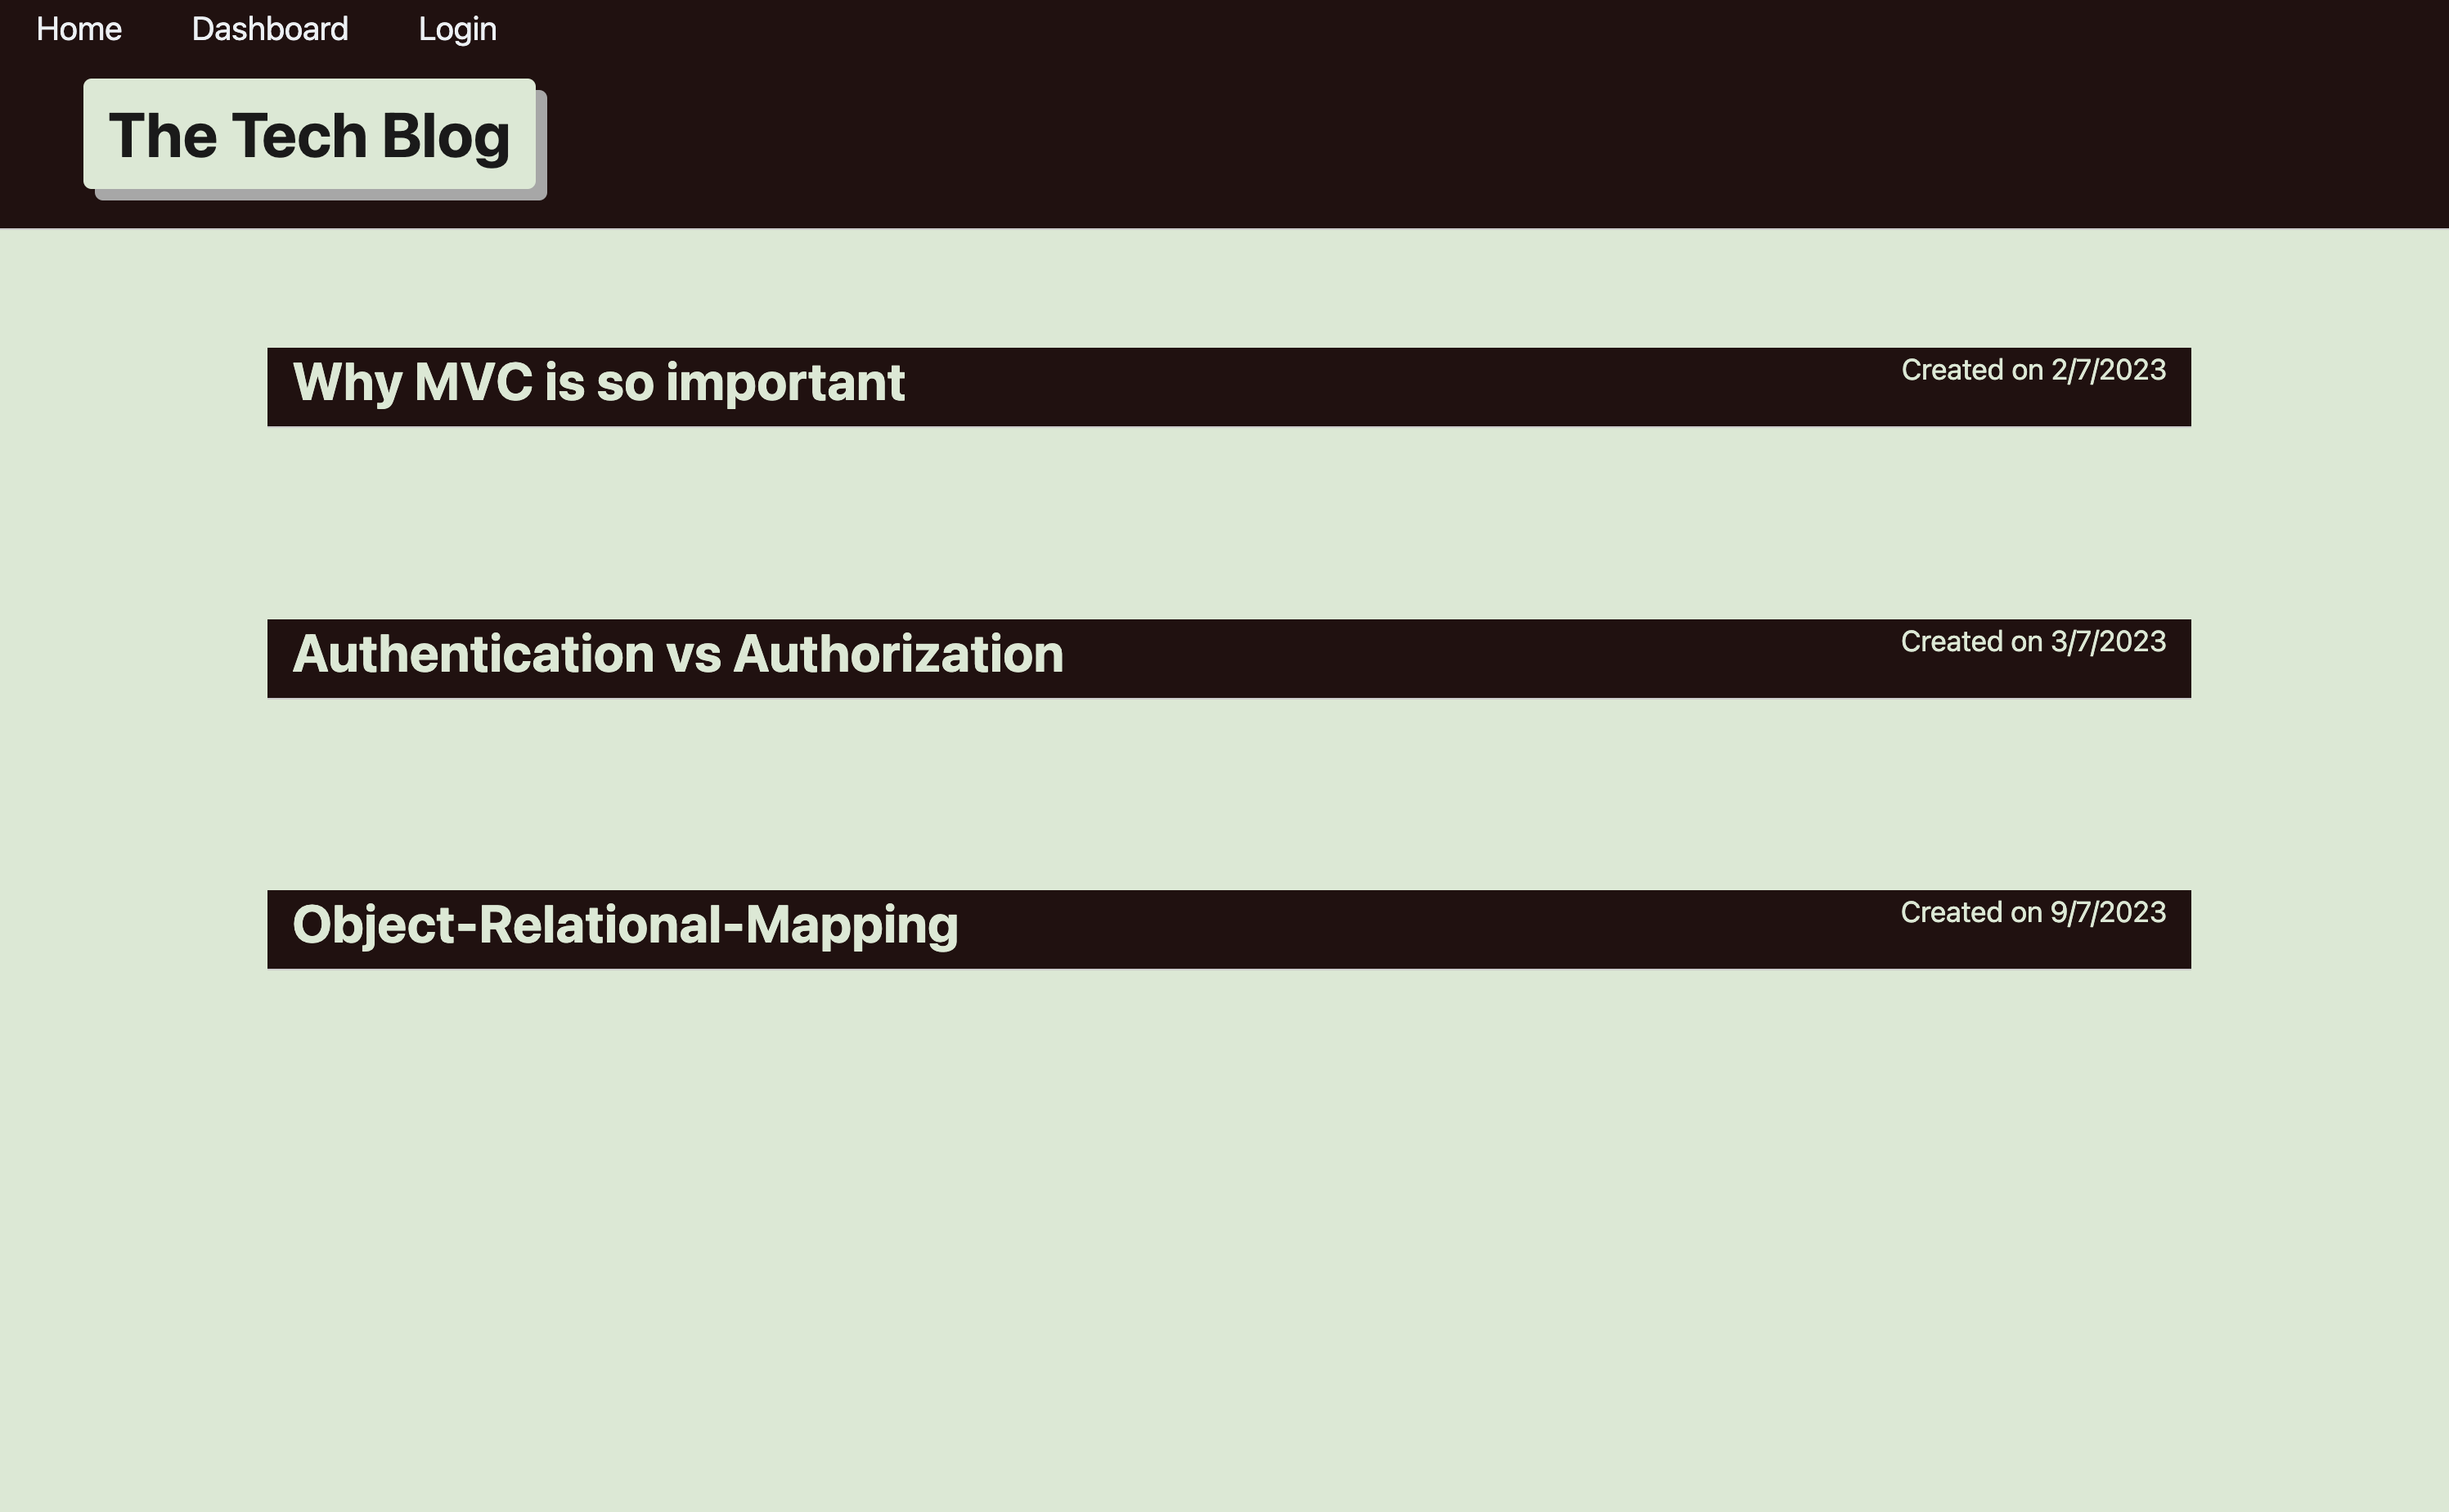
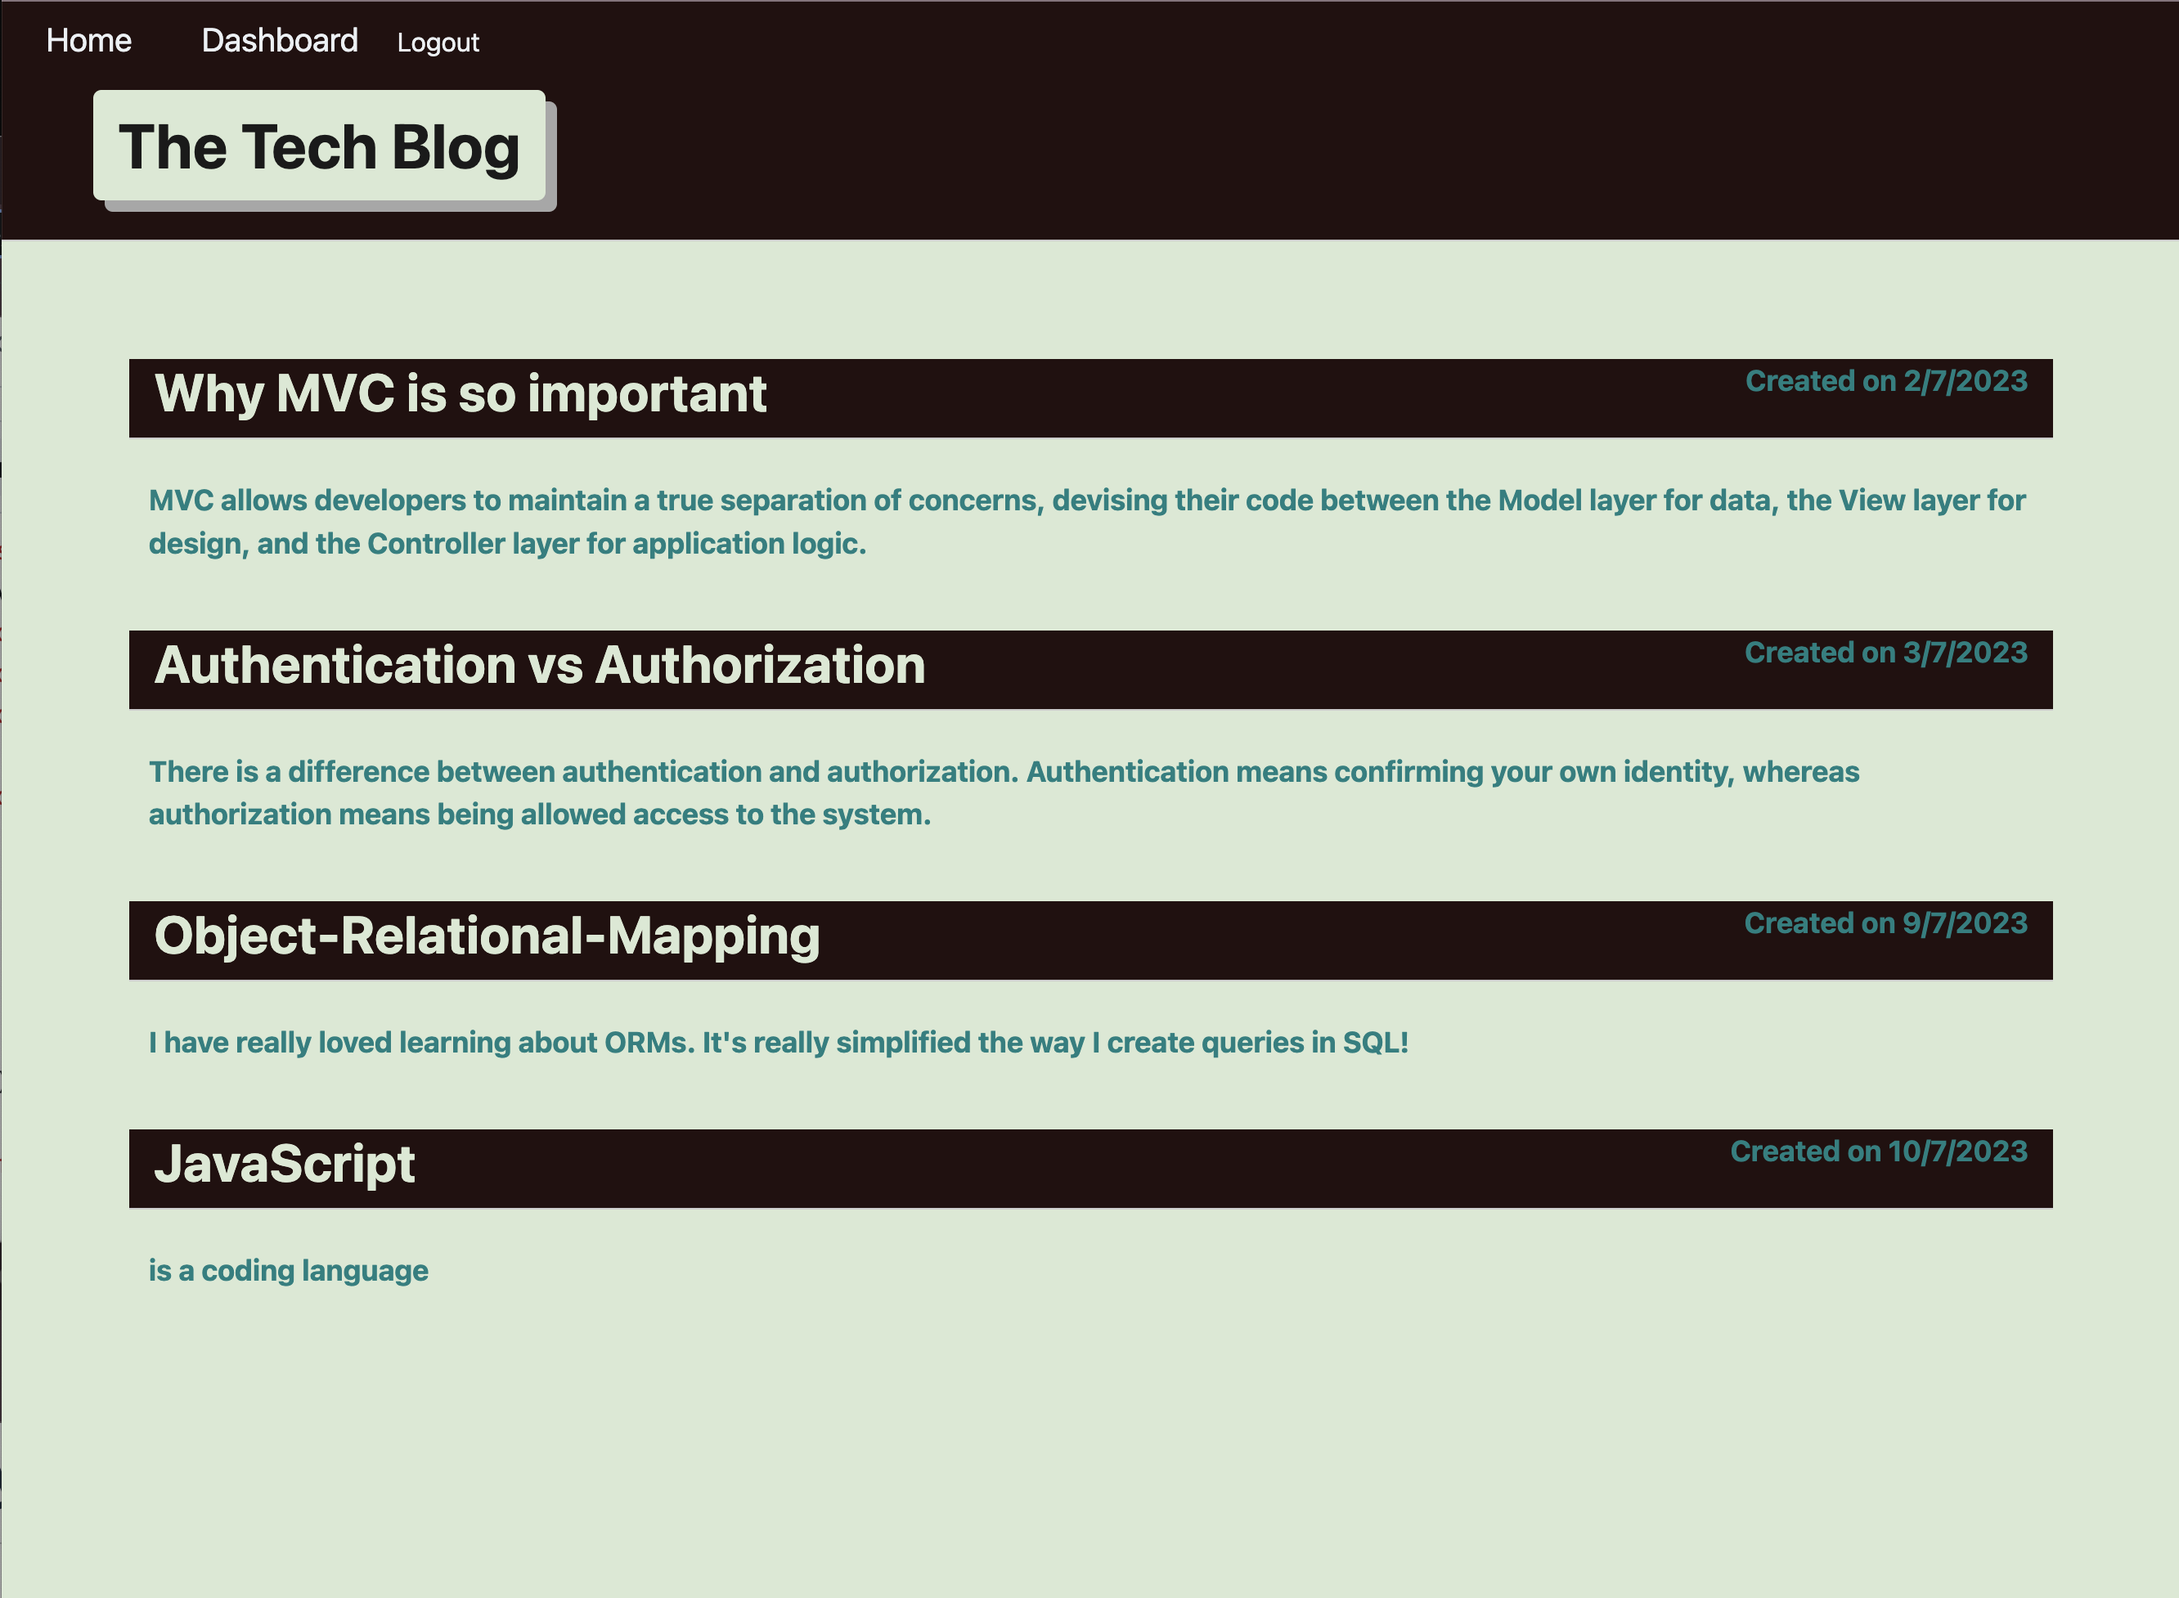
final commit

diff --git a/public/css/style.css b/public/css/style.css
@@ -47,9 +47,11 @@ h2, h3, .form-group, #comment-container {
   font-weight: bold;
 }
 
+
 p {
   color: #008080;
   font-weight: bold;
+  text-decoration: none;
 }
 
 nav a {
@@ -76,6 +78,17 @@ nav a:hover {
   line-height: auto;
 }
 
+.created-by {
+  color:#ebf0f5;
+  flex-direction: row;
+  justify-content: space-around;
+}
+
+.created-by p {
+  text-align: right;
+  margin: 0;
+  line-height: auto;
+}
 .blogpost-desc {
   margin-top: 0;
   border-color: #221010;
@@ -101,6 +114,13 @@ nav a:hover {
     text-decoration: underline;
 }
 
+#comment-desc {
+  padding: 10px;
+  margin-top: 15px;
+  border-bottom: 1px solid;
+
+  
+}
 .blogpost-name-link {
     color: #d9e9d3;
 }
@@ -136,4 +156,9 @@ nav a:hover {
 
 .container {
   color: #d9e9d3;
+}
+
+.comment-container {
+  border: black 2px solid;
+
 }

diff --git a/README.md b/README.md
@@ -63,7 +63,16 @@
   ```
 
 ## Usage and Screenshots
----- TO EDIT
+- Homepage:
+- <img width="1332" alt="homepage" src="https://github.com/mcramileux/mcramileux-tech-blog/assets/122607160/8e86c05c-993f-44d4-b1fe-90532b359fef">
+- Login:
+- <img width="1015" alt="login" src="https://github.com/mcramileux/mcramileux-tech-blog/assets/122607160/ce8b149f-3f15-413b-a9b5-a3aec57b2a8b">
+- Signup:
+- <img width="1015" alt="signup" src="https://github.com/mcramileux/mcramileux-tech-blog/assets/122607160/e0c56359-a84a-44f2-81c8-85ab79d0d305">
+- New blog:
+- <img width="1416" alt="new-blog" src="https://github.com/mcramileux/mcramileux-tech-blog/assets/122607160/36a504a6-3ab1-4a15-b8cb-5926f5fb3142">
+- With comment:
+- <img width="1235" alt="with-comment" src="https://github.com/mcramileux/mcramileux-tech-blog/assets/122607160/54fe249c-20ec-48f2-b69f-4e86ef18c2a0">
 
 ## Links
 - Github Repository: https://github.com/mcramileux/mcramileux-tech-blog
